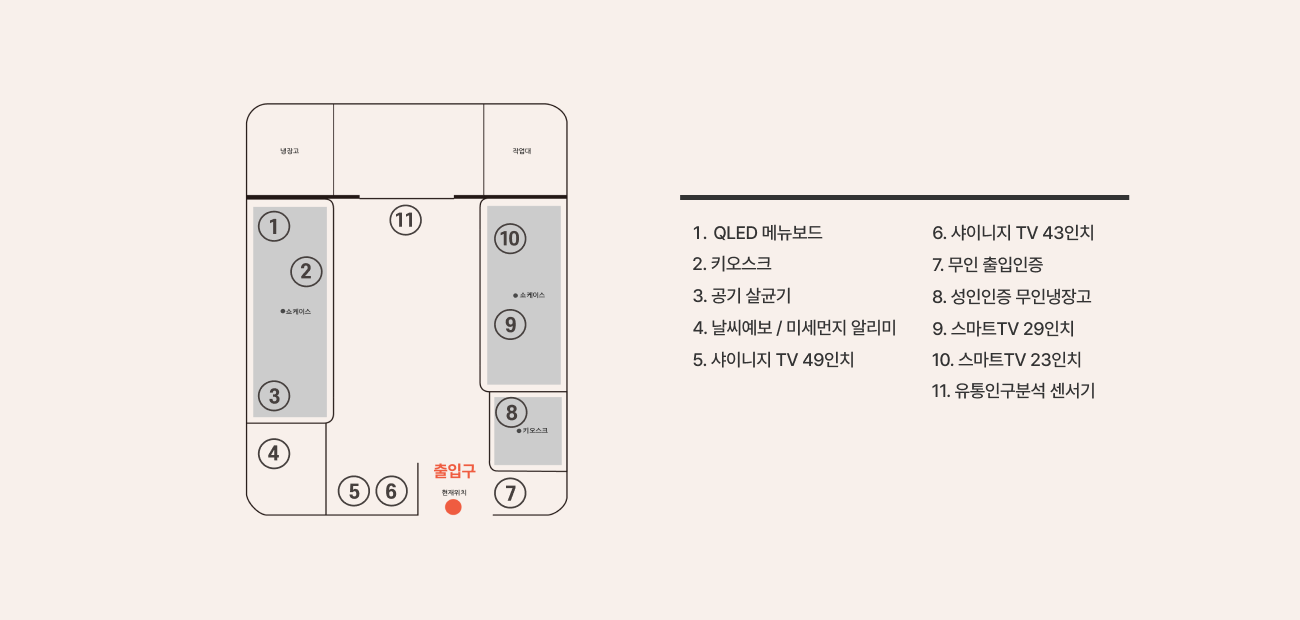
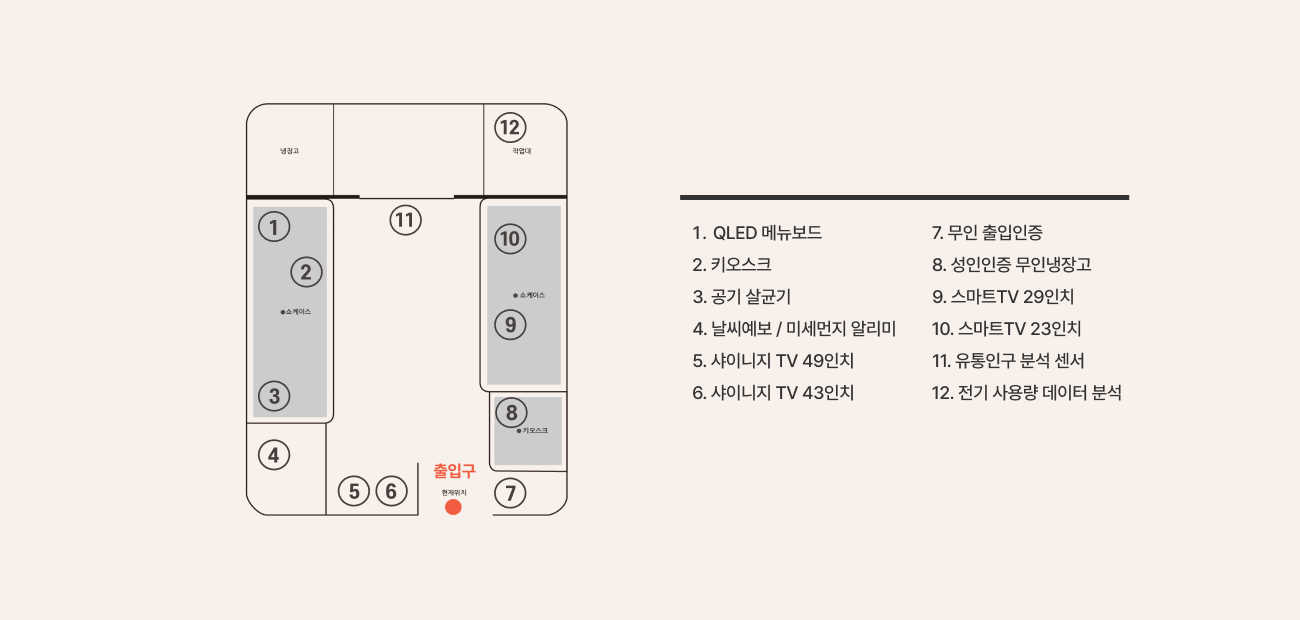
스마트스토어 추가

diff --git a/smartStor/index.html b/smartStor/index.html
@@ -323,7 +323,7 @@
                                                 <img src="/wn-official/src/img/smartdevice/유동인구분석 센서기.png" alt="유동인구분석 센서기">
                                             </div>
                                             <div class="text_wrap">
-                                                <p class="title">유동인구분석 센서기</p>
+                                                <p class="title">유동인구 분석 센서</p>
                                                 <p class="desc">
                                                     유동인구 분석을 위한<br/>
                                                     SMART AIoT 수집 센서입니다.
@@ -341,6 +341,20 @@
                                                 <p class="desc">
                                                     공기 중에 떠다니는 바이러스, 세균을<br/>
                                                     최대 99.9%까지 제거 합니다.
+                                                </p>
+                                            </div>
+                                        </div>
+                                    </div>
+                                    <div class="swiper-slide item">
+                                        <div class="item_view">
+                                            <div class="img_wrap">
+                                                <img src="/wn-official/src/img/smartdevice/전기 사용량 데이터 분석.png" alt="전기 사용량 데티터 분석">
+                                            </div>
+                                            <div class="text_wrap">
+                                                <p class="title">전기 사용량 데티터 분석</p>
+                                                <p class="desc">
+                                                    전기요금 절감과 고장/위험 알림을<br/>
+                                                    실시간으로 확인하고 분석 레포트까지 알려줍니다.
                                                 </p>
                                             </div>
                                         </div>
